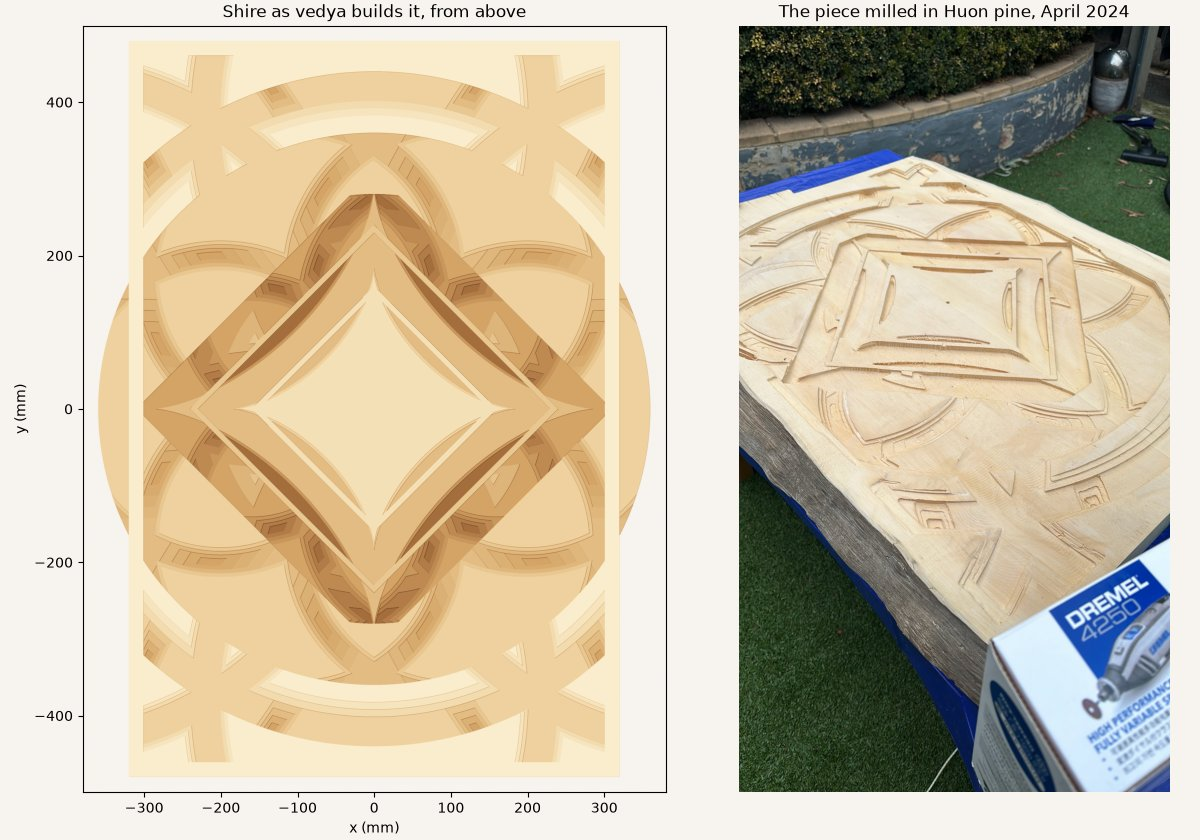
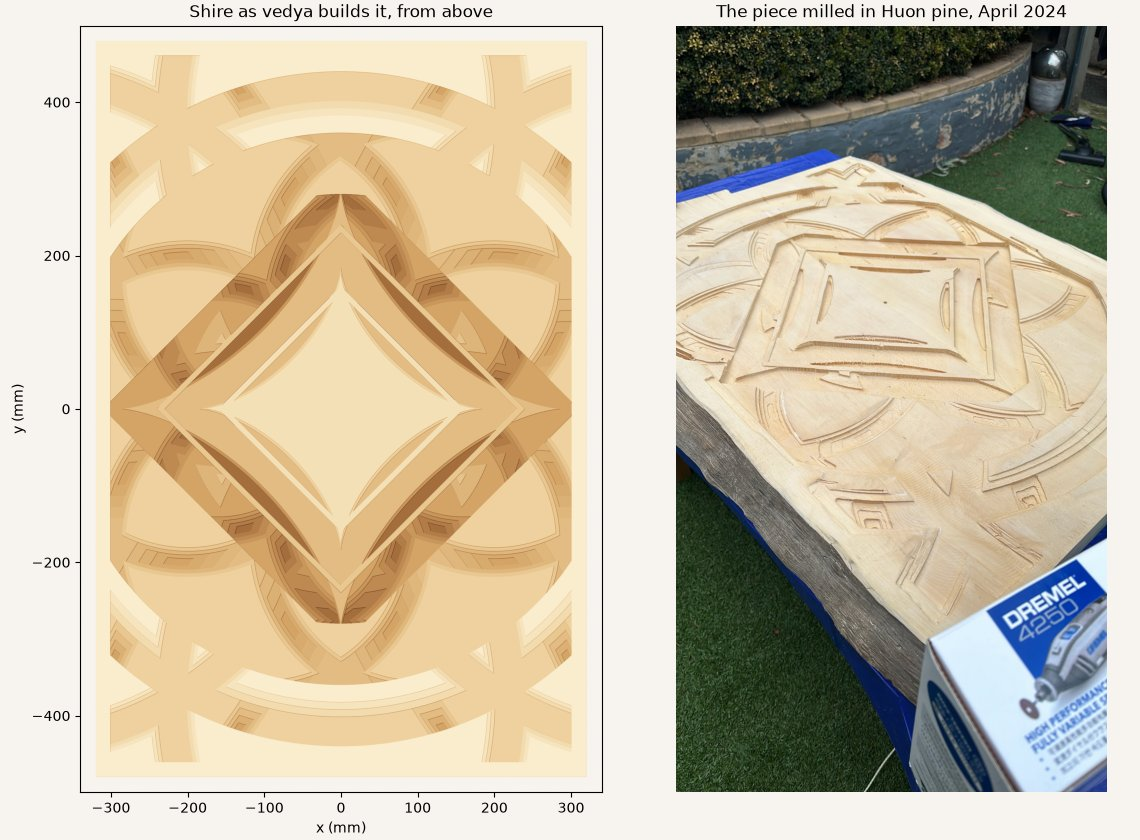
Redraw the figures from the clipped Shire, on the board with a 20 mm margin
Shire's default build now cuts layer-0 to the board, so the 3D view, the
relief, the parts, the toolpath comparison and the slices show no overhang.
The grids the figures read Shire on shrink to the board with a 20 mm margin
all round, and the figures narrow with them. flow-field.png and umss.png are
unchanged.

The toolpath table is the same as before: the overhang lay outside the area
the tools cut.

  part             cells       within 0.2 mm   over 0.2 mm below
  bg             201,517     186,400 (92.5%)            0 (0.0%)
  border         158,336            0 (0.0%)    158,336 (100.0%)
  layer-0      2,869,588   2,821,886 (98.3%)            0 (0.0%)
  layer-2      1,912,280   1,894,411 (99.1%)            0 (0.0%)
  layer-1      1,138,460   1,116,204 (98.0%)            0 (0.0%)
  core         1,473,036   1,451,741 (98.6%)            0 (0.0%)
  torus          288,301    288,301 (100.0%)            0 (0.0%)
  middle-ring     44,360     44,360 (100.0%)            0 (0.0%)

Two runs wrote identical files; the largest is 486 KB.

diff --git a/tools/figures.py b/tools/figures.py
@@ -229,11 +229,10 @@ def _widened(mask: Mask, by: int) -> Mask:
     return found
 
 
-SHIRE_GRID = Grid(cell=0.25, west=-380.0, north=500.0, rows=4000, columns=3040)
-"""Shire's board, 640 by 960 mm, and the 40 mm by which layer-0 overhangs its long
-sides, with a margin."""
+SHIRE_GRID = Grid(cell=0.25, west=-340.0, north=500.0, rows=4000, columns=2720)
+"""Shire's board, 640 by 960 mm, with a margin of 20 mm."""
 
-SLICE_GRID = Grid(cell=1.0, west=-380.0, north=500.0, rows=1000, columns=760)
+SLICE_GRID = Grid(cell=1.0, west=-340.0, north=500.0, rows=1000, columns=680)
 """The same rectangle, in cells of 1 mm."""
 
 
@@ -381,8 +380,8 @@ def _save_png(figure: Any, name: str, dpi: int) -> Path:
 
 
 def draw_relief_and_photograph(top: Surface) -> Path:
-    figure = _figure(12.0, 8.4)
-    left, right = figure.subplots(1, 2, width_ratios=[0.76, 0.5625])
+    figure = _figure(11.4, 8.4)
+    left, right = figure.subplots(1, 2, width_ratios=[0.68, 0.5625])
     left.imshow(_relief(top.height), extent=SHIRE_GRID.extent, interpolation="antialiased")
     left.set_title("Shire as vedya builds it, from above")
     _axes_in_mm(left)
@@ -396,7 +395,7 @@ def draw_relief_and_photograph(top: Surface) -> Path:
 
 
 def draw_parts(top: Surface) -> Path:
-    figure = _figure(8.0, 11.0)
+    figure = _figure(7.4, 11.0)
     axes = figure.subplots()
     light = LightSource(azdeg=315, altdeg=35)
     cell = SHIRE_GRID.cell
@@ -429,7 +428,7 @@ def draw_parts(top: Surface) -> Path:
 
 
 def draw_against_the_toolpaths(top: Surface, cut: Raster) -> Path:
-    figure = _figure(18.0, 8.0)
+    figure = _figure(17.0, 8.0)
     model, milled_axes, difference_axes = figure.subplots(1, 3)
     model.imshow(_relief(top.height), extent=SHIRE_GRID.extent, interpolation="antialiased")
     model.set_title("The model's top")
@@ -462,7 +461,7 @@ def draw_against_the_toolpaths(top: Surface, cut: Raster) -> Path:
 
 def draw_slices(layers: Sequence[bd.Part]) -> Path:
     height, count = SLICE
-    figure = _figure(18.0, 9.0)
+    figure = _figure(16.5, 9.0)
     grid = figure.subplots(2, (len(layers) + 1) // 2)
     colours = ListedColormap([PAPER, "#8a5a33"])
     for index, (axes, layer) in enumerate(zip(grid.flat, layers, strict=True)):
